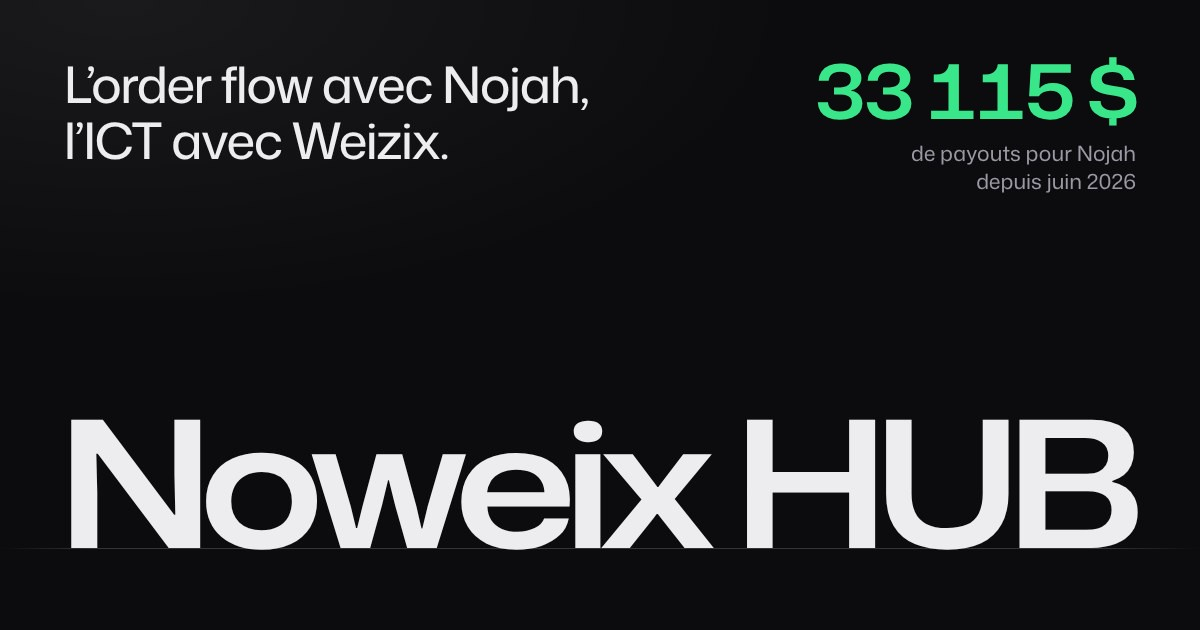
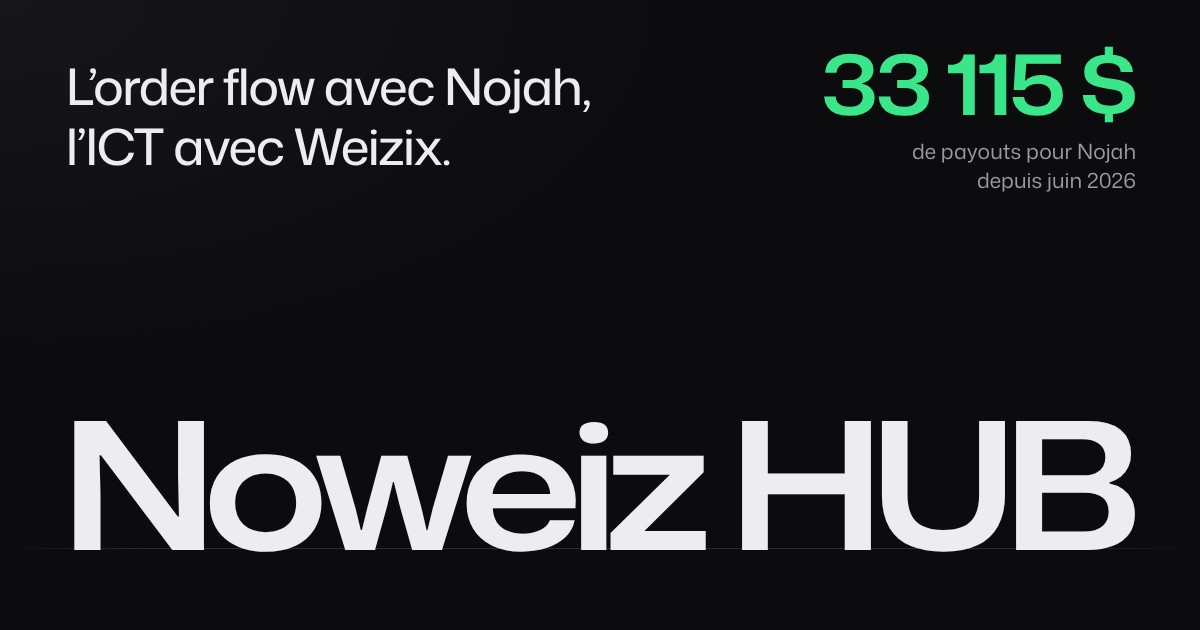
Le site devient Noweiz HUB : la marque s'écrit avec un Z
- Nom Noweiz HUB dans l'onglet, l'en-tête, le grand nom, les boutons Telegram et le pied de page ; même lien.
- Image de partage refaite avec le nouveau nom (og.jpg), README et ancien lien de l'aperçu mis à jour.
- Décision de Louis du 21/11, après l'achat de noweiz.com, noweiz.fr et noweiz.eu par Johan.

Claude-Session: https://claude.ai/code/session_01LeMKDTQYz8SVkbojz6z9WF

diff --git a/index.html b/index.html
@@ -3,8 +3,8 @@
 <head>
 <meta charset="utf-8">
 <meta name="viewport" content="width=device-width, initial-scale=1, viewport-fit=cover">
-<title>Noweix HUB, avec Nojah et Weizix</title>
-<meta name="description" content="L’order flow avec Nojah, l’ICT avec Weizix. Nojah trade le Nasdaq en live sur TikTok : 33 115 $ de payouts depuis juin 2026. Rejoins Noweix HUB, notre communauté sur Telegram.">
+<title>Noweiz HUB, avec Nojah et Weizix</title>
+<meta name="description" content="L’order flow avec Nojah, l’ICT avec Weizix. Nojah trade le Nasdaq en live sur TikTok : 33 115 $ de payouts depuis juin 2026. Rejoins Noweiz HUB, notre communauté sur Telegram.">
 <link rel="canonical" href="https://azulixnq.github.io/nojah/">
 <meta name="theme-color" content="#0C0C0F">
 <meta name="color-scheme" content="dark">
@@ -12,12 +12,12 @@
 <meta property="og:type" content="website">
 <meta property="og:locale" content="fr_FR">
 <meta property="og:url" content="https://azulixnq.github.io/nojah/">
-<meta property="og:title" content="Noweix HUB, avec Nojah et Weizix">
-<meta property="og:description" content="L’order flow avec Nojah, l’ICT avec Weizix. Rejoins Noweix HUB, notre communauté sur Telegram.">
+<meta property="og:title" content="Noweiz HUB, avec Nojah et Weizix">
+<meta property="og:description" content="L’order flow avec Nojah, l’ICT avec Weizix. Rejoins Noweiz HUB, notre communauté sur Telegram.">
 <meta property="og:image" content="https://azulixnq.github.io/nojah/og.jpg">
 <meta property="og:image:width" content="1200">
 <meta property="og:image:height" content="630">
-<meta property="og:image:alt" content="Noweix HUB : l’order flow avec Nojah, l’ICT avec Weizix.">
+<meta property="og:image:alt" content="Noweiz HUB : l’order flow avec Nojah, l’ICT avec Weizix.">
 <meta name="twitter:card" content="summary_large_image">
 <link rel="icon" href="favicon.svg" type="image/svg+xml">
 <link rel="apple-touch-icon" href="apple-touch-icon.png">
@@ -51,7 +51,7 @@
   --maxw: 1520px;
   --head: 64px;
   --sec: clamp(80px, 9vw, 152px);
-  /* taille du nom : « Noweix HUB » (6,1 em) sur toute la largeur, sans jamais dépasser la hauteur de l’écran ;
+  /* taille du nom : « Noweiz HUB » (6,1 em) sur toute la largeur, sans jamais dépasser la hauteur de l’écran ;
      sur téléphone, il passe sur deux lignes (voir « petits écrans ») */
   --name: clamp(56px, min((min(100vw, var(--maxw)) - 2 * var(--gutter) - 16px) / 6.1, (82svh - var(--head) - 100px) / 1.145), 600px);
   --ease: cubic-bezier(.16, 1, .3, 1);
@@ -562,7 +562,7 @@ html.has-viewer { overflow: hidden; }
 
 <header class="top">
   <div class="wrap top-in">
-    <a class="brand" href="#haut">Noweix&nbsp;HUB</a>
+    <a class="brand" href="#haut">Noweiz&nbsp;HUB</a>
     <nav aria-label="Les réseaux de Nojah">
       <ul class="social">
         <li><a href="https://www.tiktok.com/@nojahonorderflow" target="_blank" rel="noopener"><svg class="ico" aria-hidden="true"><use href="#i-tiktok"/></svg><span>TikTok</span></a></li>
@@ -570,7 +570,7 @@ html.has-viewer { overflow: hidden; }
         <li><a href="https://www.youtube.com/@FXJohanBDX" target="_blank" rel="noopener"><svg class="ico" aria-hidden="true"><use href="#i-youtube"/></svg><span>YouTube</span></a></li>
       </ul>
     </nav>
-    <a class="btn btn-main" href="https://t.me/+zSf9D4ee_4w5NzM0" target="_blank" rel="noopener" aria-label="Rejoindre Noweix HUB, notre communauté sur Telegram"><svg class="ico" aria-hidden="true"><use href="#i-telegram"/></svg><span class="btn-text">Rejoindre</span></a>
+    <a class="btn btn-main" href="https://t.me/+zSf9D4ee_4w5NzM0" target="_blank" rel="noopener" aria-label="Rejoindre Noweiz HUB, notre communauté sur Telegram"><svg class="ico" aria-hidden="true"><use href="#i-telegram"/></svg><span class="btn-text">Rejoindre</span></a>
   </div>
 </header>
 
@@ -581,15 +581,15 @@ html.has-viewer { overflow: hidden; }
 
   <section class="hero" id="haut" aria-labelledby="nom">
     <div class="wrap hero-grid">
-      <h1 class="name" id="nom"><span class="name-clip"><span class="name-text"><span class="name-w">Noweix</span> <span class="name-w">HUB</span></span></span></h1>
+      <h1 class="name" id="nom"><span class="name-clip"><span class="name-text"><span class="name-w">Noweiz</span> <span class="name-w">HUB</span></span></span></h1>
       <div class="hero-copy">
         <p class="lead">L’order&nbsp;flow avec Nojah, l’ICT avec Weizix.</p>
         <div class="hero-cta">
           <div class="actions">
-            <a class="btn btn-main" href="https://t.me/+zSf9D4ee_4w5NzM0" target="_blank" rel="noopener"><svg class="ico" aria-hidden="true"><use href="#i-telegram"/></svg>Rejoindre Noweix&nbsp;HUB</a>
+            <a class="btn btn-main" href="https://t.me/+zSf9D4ee_4w5NzM0" target="_blank" rel="noopener"><svg class="ico" aria-hidden="true"><use href="#i-telegram"/></svg>Rejoindre Noweiz&nbsp;HUB</a>
             <a class="btn btn-line" href="https://discord.gg/zVJuSdCjSG" target="_blank" rel="noopener"><svg class="ico" aria-hidden="true"><use href="#i-discord"/></svg>Discord de la communauté</a>
           </div>
-          <p class="actions-note">Noweix&nbsp;HUB, c’est notre communauté sur Telegram.</p>
+          <p class="actions-note">Noweiz&nbsp;HUB, c’est notre communauté sur Telegram.</p>
         </div>
       </div>
     </div>
@@ -643,9 +643,9 @@ html.has-viewer { overflow: hidden; }
     <div class="wrap trio">
       <section class="cell" aria-labelledby="communaute-titre">
         <h2 class="h2" id="communaute-titre">La communauté</h2>
-        <p>Deux portes d’entrée&nbsp;: Noweix&nbsp;HUB, notre communauté sur Telegram, et le Discord de la communauté.</p>
+        <p>Deux portes d’entrée&nbsp;: Noweiz&nbsp;HUB, notre communauté sur Telegram, et le Discord de la communauté.</p>
         <div class="cell-actions">
-          <a class="btn btn-main" href="https://t.me/+zSf9D4ee_4w5NzM0" target="_blank" rel="noopener"><svg class="ico" aria-hidden="true"><use href="#i-telegram"/></svg>Rejoindre Noweix&nbsp;HUB</a>
+          <a class="btn btn-main" href="https://t.me/+zSf9D4ee_4w5NzM0" target="_blank" rel="noopener"><svg class="ico" aria-hidden="true"><use href="#i-telegram"/></svg>Rejoindre Noweiz&nbsp;HUB</a>
           <a class="btn btn-line" href="https://discord.gg/zVJuSdCjSG" target="_blank" rel="noopener"><svg class="ico" aria-hidden="true"><use href="#i-discord"/></svg>Discord de la communauté</a>
         </div>
       </section>
@@ -742,8 +742,8 @@ html.has-viewer { overflow: hidden; }
         </section>
       </div>
       <div class="end">
-        <p>Envie de suivre la suite&nbsp;? <span>Rejoins Noweix&nbsp;HUB, notre communauté sur Telegram.</span></p>
-        <a class="btn btn-main" href="https://t.me/+zSf9D4ee_4w5NzM0" target="_blank" rel="noopener"><svg class="ico" aria-hidden="true"><use href="#i-telegram"/></svg>Rejoindre Noweix&nbsp;HUB</a>
+        <p>Envie de suivre la suite&nbsp;? <span>Rejoins Noweiz&nbsp;HUB, notre communauté sur Telegram.</span></p>
+        <a class="btn btn-main" href="https://t.me/+zSf9D4ee_4w5NzM0" target="_blank" rel="noopener"><svg class="ico" aria-hidden="true"><use href="#i-telegram"/></svg>Rejoindre Noweiz&nbsp;HUB</a>
       </div>
     </div>
   </section>
@@ -753,7 +753,7 @@ html.has-viewer { overflow: hidden; }
   <div class="wrap foot-in">
     <p>Le trading comporte un risque élevé de perte en capital. Nojah et Weizix partagent leur parcours&nbsp;: ce ne sont pas des conseils en investissement, et les résultats passés ne garantissent pas les résultats futurs.</p>
     <p>Les liens FTMO de cette page sont des liens affiliés. FTMO, Lucid Trading et Topstep sont des marques de leurs propriétaires.</p>
-    <p>© 2026 Noweix&nbsp;HUB. Site hébergé par GitHub Pages.</p>
+    <p>© 2026 Noweiz&nbsp;HUB. Site hébergé par GitHub Pages.</p>
   </div>
 </footer>
 

diff --git a/apercu/index.html b/apercu/index.html
@@ -3,14 +3,14 @@
 <head>
 <meta charset="utf-8">
 <meta name="viewport" content="width=device-width, initial-scale=1">
-<title>Noweix HUB</title>
+<title>Noweiz HUB</title>
 <meta name="robots" content="noindex">
 <link rel="canonical" href="https://azulixnq.github.io/nojah/">
 <meta http-equiv="refresh" content="0; url=../">
 <style>html,body{margin:0;background:#0C0C0F;color:#EDEDF0;font:16px/1.5 system-ui,sans-serif}p{padding:24px}a{color:inherit}</style>
 </head>
 <body>
-<p>Le site Noweix HUB a déménagé : <a href="../">azulixnq.github.io/nojah</a>.</p>
+<p>Le site Noweiz HUB a déménagé : <a href="../">azulixnq.github.io/nojah</a>.</p>
 <script>location.replace('../');</script>
 </body>
 </html>

diff --git a/README.md b/README.md
@@ -1,6 +1,6 @@
-# Noweix HUB
+# Noweiz HUB
 
-Le site de Noweix HUB, avec Nojah (order flow) et Weizix (ICT) : https://azulixnq.github.io/nojah/ (le lien n'a pas changé).
+Le site de Noweiz HUB, avec Nojah (order flow) et Weizix (ICT) : https://azulixnq.github.io/nojah/ (le lien n'a pas changé).
 
 - `index.html` : la page (le style et le script sont dedans, aucun service extérieur).
 - `img/certificats/` : les 14 preuves de payout de Nojah (13 certificats Lucid Trading et 1 preuve Topstep), recadrées depuis ses captures (aucune n'est refaite) ; sur celles d'octobre et de novembre, le QR code et le code du certificat sont masqués.
